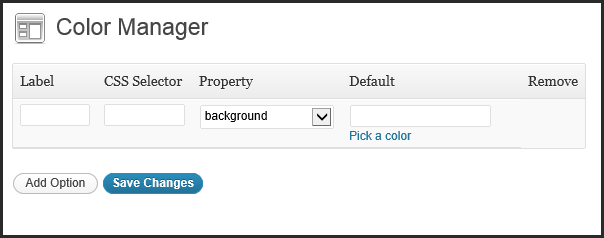
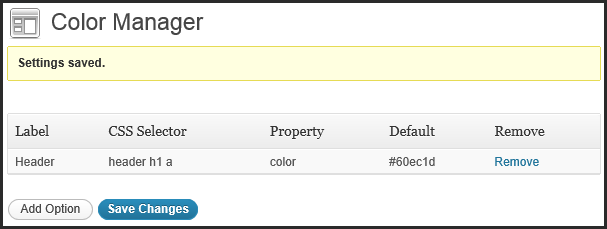
changes

diff --git a/dev/documentation/index.html b/dev/documentation/index.html
@@ -418,7 +418,7 @@
                 </ul>
 
                 <a name="uploadone"><h1>Appearance</h1></a>
-                <p>Appearance setting should be accessible by only Admin user.&nbsp; Appearance allows the user to change the look of the site through different themes and headers, which helps manage the way the site content is displayed.</p>
+                <p>Appearance setting should be accessible by only the Admin user.&nbsp; User can access the Appearance Appearance setting by clicking on <strong>Appearance</strong> link on the Dashboard menu on the left-side, or click on one of the options from its fly out menu.&nbsp; Appearance allows the user to change the look of the site through different themes and headers, which helps manage the way the site content is displayed.</p>
                
                  <a name="uploadone"><h2>Themes</h2></a>
                 <ul>
@@ -446,14 +446,12 @@
                     <li class="auto-style3"><em>Figure 52. </em>Menus</li> 
                 </ul>
 
-                 <a name="themeoptions"><h2>Color Manager</h2></a>
+                 <a name="colormanager"><h2>Color Manager</h2></a>
                 <ul>
-                    <li>Color Manager is a plug-in that allows user to easily change the color scheme without accessing the source code. For example user can use this plug-in if user wishes to change the color the header.&nbsp; Example is shown in Figure 52. </li>
-                    <li>The indented navigation links such as Boat Dive represents sub-menu of a parent-menu.&nbsp; Boat drive is a sub-menu of Services, therefore its link will be displayed when the visitor clicks on the arrow button next to Services link as shown in Figure 51. </li>
-                    <li><img src="gallery/nav.png" alt="Navigation Bar" /></li>
+                    <li>Color Manager is a plug-in that allows user to easily change the color scheme without accessing the source code. For example user can use this plug-in if user wishes to change the color the main header, Dive Catalina as shown in Figure 53.&nbsp;User can use the Cheat Sheet provided below to make the changes.&nbsp; </li>
                     <li class="auto-style5"><strong>Cheat Sheet</strong></li>
                     <li>
-                        <table style="width: 100%;"> 
+                        <table style="width: 100%;">
                             <tr>
                                 <td><strong>CSS Selector:</strong></td>
                             </tr>
@@ -498,10 +496,84 @@
                                 <td>Footer contact section</td>
                             </tr>
                         </table>
-                    </li>
-                <ul>
-                    <li><a href="#top">Go to the Top</a></li>
-                </ul>
+                        </li>
+                        <li>In order to use the Color Manager, user must provide information of the section user wishes to change. User can name the change by typing it in under Label. This is only for user&#39;s reference.&nbsp; <strong>CSS selector </strong>would be the CSS tag of the section user would like to change.&nbsp; User can refer to the <strong>Cheat Sheet</strong> for assistance. <strong>Property</strong> menu allows user to choose what user would like to change such as the color of the font, background, or border line.&nbsp; <strong>Default </strong>menu allows user to choose option that user would like to make changes to.&nbsp; For instance,&nbsp; the header of pages&#39;s color is changed to #60ec1d by using its CSS tag &#39;header h1 a&#39; in Figure 53 and 54. </li>
+                        <li><img src="gallery/colormanager.png" alt="Color Manager" /></li>
+                        <li class="auto-style3"><em>Figure 53. </em>Color Manager changes color of the header</li> 
+                         <li>
+                            <table style="width: 100%;">
+                                <tr>
+                                    <td><img src="gallery/originalheader.png" alt="Color Manager" /></td>
+                                    <td><img src="gallery/greenheader.png" alt="Color Manager" style="height: 143px" /></td>
+                                </tr>
+                            </table>
+                        </li>
+                        <li class="auto-style3"><em>Figure 54. </em>Changes</li> 
+                    </ul>
+                    <a name="fontific"><h2>Fontific</h2></a>
+                    <ul>
+                        <li>Fontific is a plug-in that allows user to use Google Fonts from the Google Web Font library on the website.&nbsp; To use one of the fonts, user needs to add a new font rule by clicking on the <strong>New Font Rule </strong>button.&nbsp; Then, user needs to specify the css selector to which this rule will be applied, set up font settings such as font size, line heigh, letter spacing, and color, and save the changes.&nbsp; Preview section will show the changes before user saves the changes.&nbsp; User can use the <strong>Cheat Sheet </strong>provided below when using the Fontific Plugin. </li>
+                        <li><img src="gallery/font.png" alt="Fontific" style="width:607px" /></li>
+                        <li class="auto-style3"><em>Figure 55. </em>Fontific</li> 
+                        <li class="auto-style5"><strong>Cheat Sheet</strong></li>
+                        <li>
+                        <table style="width: 100%;">
+                            <tr>
+                                <td><strong>CSS Selector:</strong></td>
+                            </tr>
+                            <tr>
+                                <td>a</td>
+                                <td>Universal links</td>
+                            </tr>
+                            <tr>
+                                <td>.nav</td>
+                                <td>Menu navigation background</td>
+                            </tr>
+                            <tr>
+                                <td>header h1 a</td>
+                                <td>Main header: Dive Catalina</td>
+                            </tr>
+                            <tr>
+                                <td>header h2</td>
+                                <td>Work Less, Dive Moore!</td>
+                            </tr>
+                            <tr>
+                                <td>body</td>
+                                <td>Content text</td>
+                            </tr>
+                            <tr>
+                                <td>h1</td>
+                                <td>Page headers</td>
+                            </tr>
+                            <tr>
+                                <td>#footerContact</td>
+                                <td>Footer contact section</td>
+                            </tr>
+                        </table>
+                        </li>
+                    </ul>
+                    <a name="editor"><h2>Theme Editor</h2></a>
+                    <ul>
+                        <li>Theme Editor allows user to edit the various files that comprise the Themes.&nbsp; Appearance Editor Screen allows user to select the theme and edit the CSS and Template files in the large text box as shown in Figure 56. </li>
+                        <li><img src="gallery/editthemes.png" alt="Edit Themes" /></li>
+                        <li class="auto-style3"><em>Figure 56. </em>Appearance Editor Screen</li> 
+                    </ul> 
+
+                    <a name="plugins"><h1>Plugins</h1></a>
+                    <p>Plugins allow user to add more features to the website that do not come with the default installation.&nbsp; User can access Plugins by clicking Plugins link on the Dashboard menu on the left-side, or clicking on one of the options from its fly out menu.&nbsp; Once user clicks on the <strong>Plugins </strong>link or <strong>Installed Plugins </strong>link from the fly-out menu, user will be directed to the Plugins page that has a list of all the installed plugins. </p>
+                    
+                    <a name="installedplugins"><h2>Installed Plugins</h2></a>
+                    <ul>
+                        <li>Once user clicks on the Plugins link or Installed Plugins link, user will be directed to Plugins Istalled Screen as shown in Figure 57.  Not all plugins installed need to be activated or used on website. User can choose which plugins to activate or deactivate on the site.  </li>
+                        <li><img src="gallery/plugin.png" alt="Plugins" /></li>
+                        <li class="auto-style3"><em>Figure 56. </em>Appearance Editor Screen</li> 
+       
+                        <li><a href="#top">Go to the Top</a></li>
+                        </ul>
+               
+
+                        <li><a href="#top">Go to the Top</a></li>
+                        </ul>
                
             </div><!--End of content-->
        </div>
